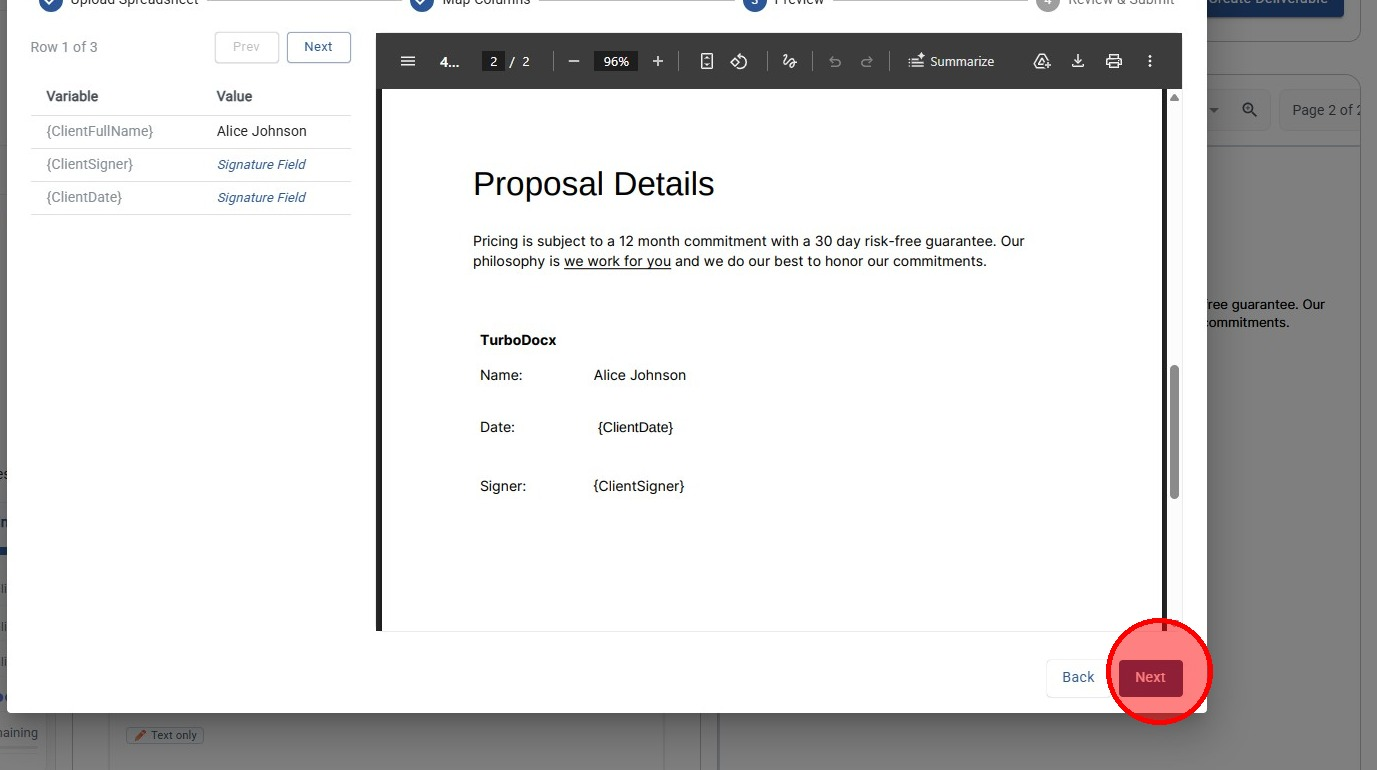
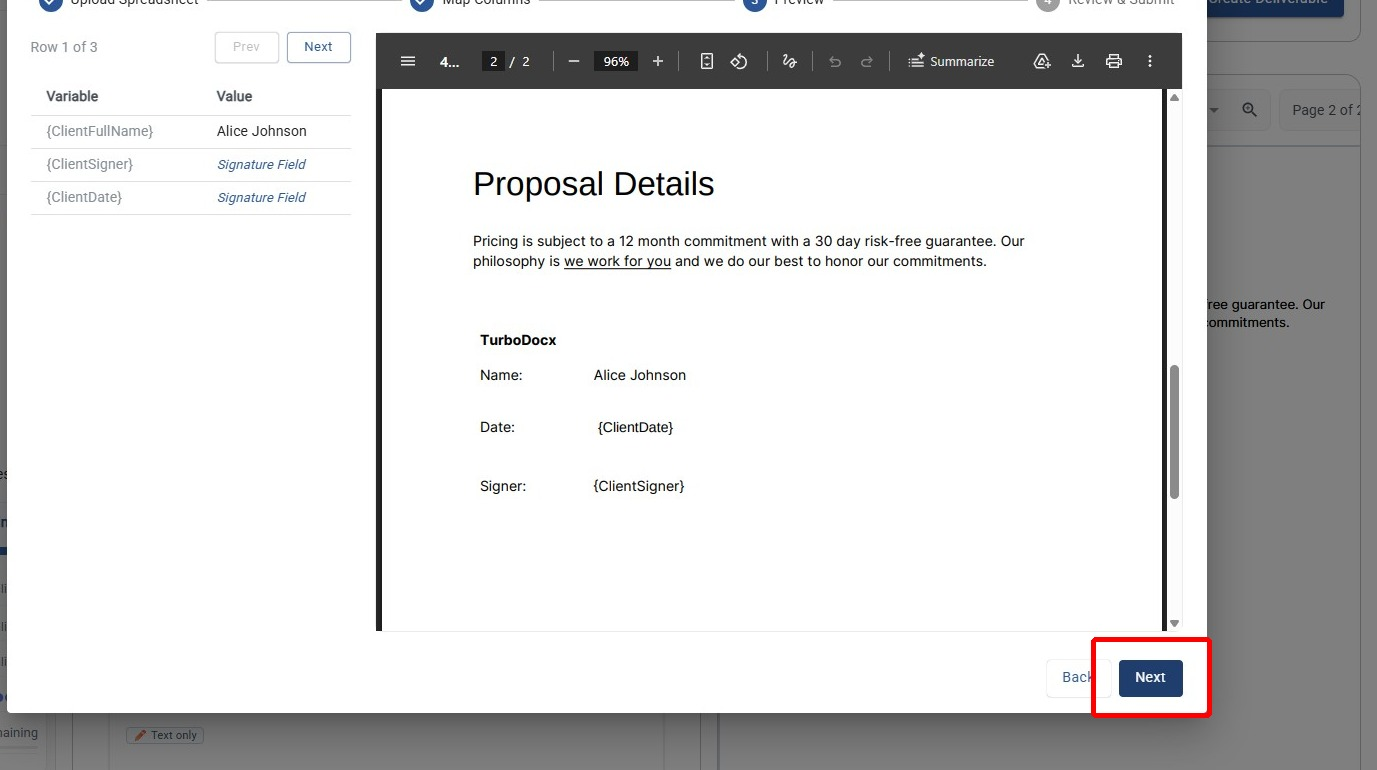
docs: reorder sidebar, fix spacing, update preview screenshot
- Move Bulk Signature Sending above API pages in sidebar
- Add breathing room between dense paragraphs in Step 3
- Rename "Template Details" to "Edit Template & Preferences"
- Move column-mapping screenshot above explanation text
- Update preview screenshot with latest Scribe capture

Changed region(s): [[0.7807, 0.7792, 0.9056, 0.9662]]

diff --git a/docs/TurboSign/Bulk Signature Sending.md b/docs/TurboSign/Bulk Signature Sending.md
@@ -73,11 +73,11 @@ Make sure your spreadsheet has clear column headers that match (or are close to)
 
 ## Step 1: Open the Bulk Send Wizard
 
-Navigate to the **Template Details** page for the template you want to send in bulk. You'll see a **"Bulk Send"** button alongside the other template actions.
+Navigate to the **Edit Template & Preferences** page for the template you want to send in bulk. You'll see a **"Bulk Send"** button alongside the other template actions.
 
 **Click "Bulk Send"** to open the wizard.
 
-![Bulk Send button on Template Details page](/img/turbosign/bulk/bulk-send-button.jpeg)
+![Bulk Send button on Edit Template & Preferences page](/img/turbosign/bulk/bulk-send-button.jpeg)
 
 :::note Non-Pro Users
 If your organization doesn't have the Pro plan, the Bulk Send button displays an upgrade badge. Clicking it opens the upgrade dialog instead of the wizard.
@@ -138,15 +138,21 @@ This is the most important step. Here you'll connect your spreadsheet data to yo
 
 Each template variable (placeholder) needs to be resolved — either by mapping it to a spreadsheet column or by designating it as a signature field.
 
+![Template variable mapping with auto-match](/img/turbosign/bulk/column-mapping.jpeg)
+
+<br/>
+
 **Auto-Matching:** The wizard automatically attempts to match your column headers to template placeholders using fuzzy matching. For example, a column named `client_email` would auto-match to a `{clientEmail}` placeholder. Auto-matched mappings display an **"Auto-matched"** chip.
 
+<br/>
+
 **Manual Override:** You can always override an auto-match by selecting a different column from the dropdown.
+
+<br/>
 
 **Signature Field Option:** Instead of mapping a variable to a column, you can click the **"Sign"** button next to a variable to designate it as a **signature field** — meaning it becomes a field that the recipient fills in or signs during the signing process.
 
 ![Click the Sign button to designate a variable as a signature field](/img/turbosign/bulk/signature-field-toggle.jpeg)
-
-![Template variable mapping with auto-match](/img/turbosign/bulk/column-mapping.jpeg)
 
 <br/>
 
@@ -172,6 +178,8 @@ For any variable designated as a signature field, you'll configure:
 
 **Recipient Assignment** — assign the field to a specific recipient (signer).
 
+<br/>
+
 **Optional Settings:**
 - **Default Value** — pre-fill the field with a value the signer can review or edit
 - **Read Only** — lock the field so the signer can see it but not change it (requires a default value)
@@ -187,6 +195,8 @@ Define who signs each document by mapping spreadsheet columns to recipient slots
 **For each recipient, configure:**
 - **Email Column** — which spreadsheet column contains their email address
 - **Name Column** — which spreadsheet column contains their name
+
+<br/>
 
 **Additional options:**
 - **Multiple Recipients** — click **"Add Recipient"** to add up to **10 signers** per document. Each recipient is color-coded for easy visual identification

diff --git a/docs/TurboSign/API Bulk Signatures.md b/docs/TurboSign/API Bulk Signatures.md
@@ -1,6 +1,6 @@
 ---
 title: TurboSign Bulk API Integration
-sidebar_position: 4
+sidebar_position: 5
 description: Send documents for signature at scale using TurboSign Bulk API. Process hundreds or thousands of signature requests in batches with comprehensive tracking and management capabilities.
 keywords:
   - turbosign bulk api

diff --git a/docs/TurboSign/API Signatures.md b/docs/TurboSign/API Signatures.md
@@ -1,6 +1,6 @@
 ---
 title: TurboSign API Integration
-sidebar_position: 3
+sidebar_position: 4
 description: Complete guide for integrating TurboSign API using single-step document preparation. Send documents for electronic signatures in one API call with our simplified workflow.
 keywords:
   - turbosign api

diff --git a/docs/TurboSign/Webhooks.md b/docs/TurboSign/Webhooks.md
@@ -1,6 +1,6 @@
 ---
 title: TurboSign Webhooks
-sidebar_position: 3
+sidebar_position: 6
 description: Configure real-time webhooks to receive instant notifications when TurboSign signature documents are completed or voided. Integrate TurboSign events with your existing systems through secure webhook endpoints.
 keywords:
   - webhook configuration